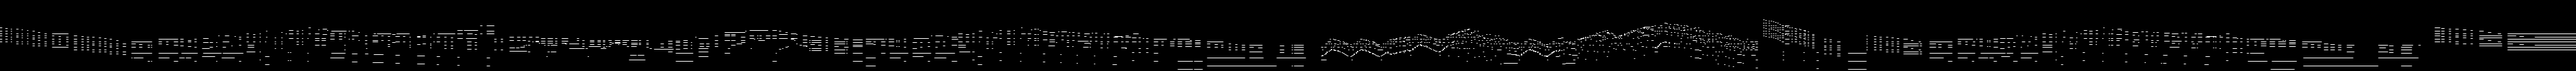
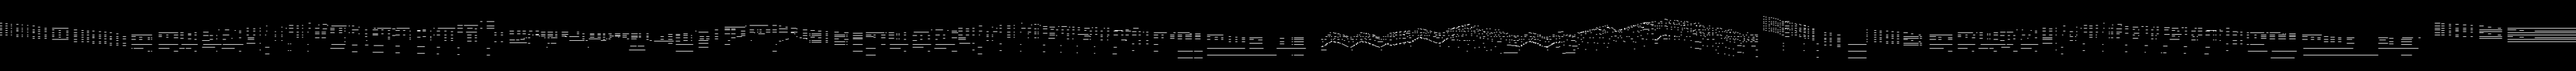
slight simplification

diff --git a/midi2img.py b/midi2img.py
@@ -42,7 +42,7 @@ def is_empty(list):
             return False
     return True
 
-def midi2image(midi_path, resolution = 0.25, lowerBoundNote = 21, upperBoundNote = 127, maxSongLength = 100):
+def midi2image(midi_path, resolution = 0.25, upperBoundNote = 127, maxSongLength = 100):
     mid = converter.parse(midi_path)
 
     instruments = instrument.partitionByInstrument(mid)
@@ -75,7 +75,7 @@ def midi2image(midi_path, resolution = 0.25, lowerBoundNote = 21, upperBoundNote
         durs = values["dur"]
         starts = values["start"]
 
-        matrix = np.zeros((maxSongLength, upperBoundNote-lowerBoundNote))
+        matrix = np.zeros((maxSongLength, upperBoundNote))
         
         np.set_printoptions(threshold=sys.maxsize)
 
@@ -86,7 +86,7 @@ def midi2image(midi_path, resolution = 0.25, lowerBoundNote = 21, upperBoundNote
             if not start > 0 or not dur+start < 0:
                 for j in range(start,start+dur):
                     if j  >= 0 and j  < maxSongLength:
-                        matrix[j, pitch-lowerBoundNote] = 255
+                        matrix[j, pitch] = 255
 
         if matrix.any(): # If matrix contains no notes (only zeros) don't save it
             trimmed_list = matrix
@@ -100,7 +100,7 @@ def midi2image(midi_path, resolution = 0.25, lowerBoundNote = 21, upperBoundNote
                 trimmed_list = trimmed_list[1:]
                 print(2)
             
-            imwrite("image.png",np.matrix(np.array(trimmed_list)).astype(np.uint8))
+            imwrite("image.png",np.matrix(np.array(trimmed_list)).astype(np.uint16))
             im = Image.open("image.png")
             im = im.rotate(90, expand=True)
             im = im.resize((3840,106))
